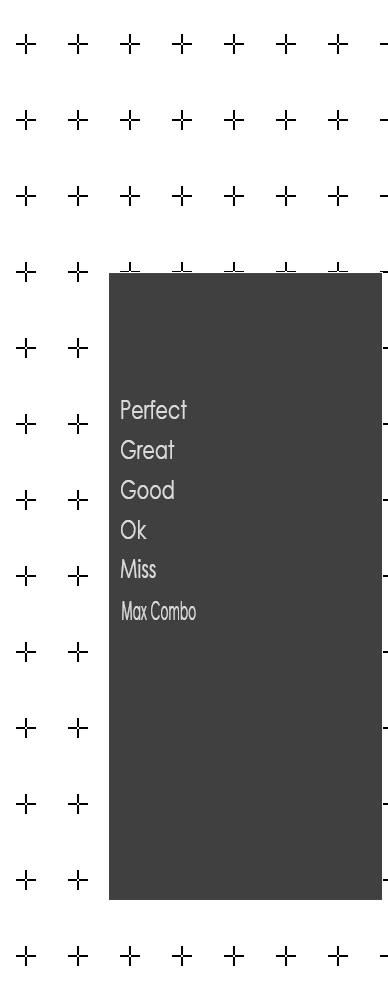
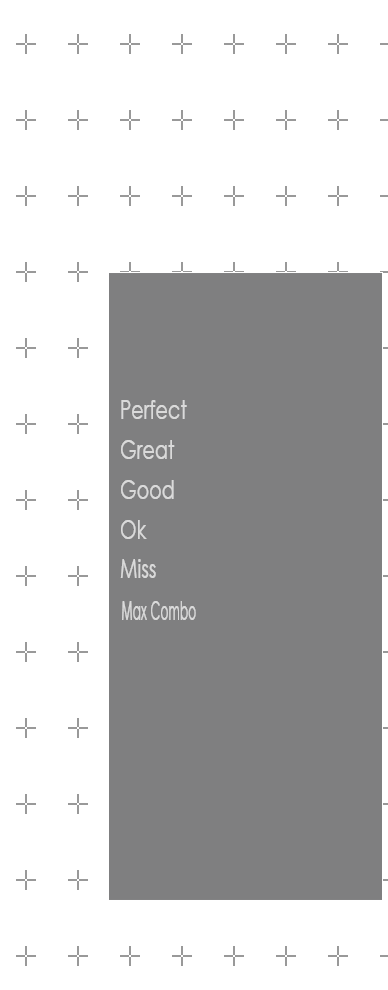
演奏画面のレーンフレームにレーンラインを追加。

diff --git a/DTXmatixx/ステージ/演奏/レーンフレーム.cs b/DTXmatixx/ステージ/演奏/レーンフレーム.cs
@@ -3,6 +3,7 @@ using System.Collections.Generic;
 using System.Diagnostics;
 using System.Linq;
 using SharpDX;
+using SharpDX.Direct2D1;
 using FDK;
 using FDK.メディア;
 
@@ -10,7 +11,6 @@ namespace DTXmatixx.ステージ.演奏
 {
 	/// <summary>
 	///		チップの背景であり、レーン全体を示すフレーム画像。
-	///		レーンフラッシュアニメも追加。
 	/// </summary>
 	class レーンフレーム : Activity
 	{
@@ -26,20 +26,20 @@ namespace DTXmatixx.ステージ.演奏
 		/// <summary>
 		///		表示レーンの左端X位置を、レーンフレームの左端からの相対位置で示す。
 		/// </summary>
-		public static Dictionary<表示レーン種別, float> レーンto左端位置dpx
+		public static Dictionary<表示レーン種別, float> レーンtoチップの左端位置dpx
 		{
 			get;
 			protected set;
 		} = new Dictionary<表示レーン種別, float>() {
 			{ 表示レーン種別.Unknown, +0f },
-			{ 表示レーン種別.LeftCrash, +4f },
-			{ 表示レーン種別.HiHat, +107f },
-			{ 表示レーン種別.Foot, +181f },
-			{ 表示レーン種別.Snare, +259f },
+			{ 表示レーン種別.LeftCrash, +1f },
+			{ 表示レーン種別.HiHat, +108f },
+			{ 表示レーン種別.Foot, +183f },
+			{ 表示レーン種別.Snare, +258f },
 			{ 表示レーン種別.Bass, +352f },
-			{ 表示レーン種別.Tom1, +447f },
-			{ 表示レーン種別.Tom2, +522f },
-			{ 表示レーン種別.Tom3, +598f },
+			{ 表示レーン種別.Tom1, +446f },
+			{ 表示レーン種別.Tom2, +521f },
+			{ 表示レーン種別.Tom3, +595f },
 			{ 表示レーン種別.RightCrash, +677f },
 		};
 		
@@ -67,17 +67,51 @@ namespace DTXmatixx.ステージ.演奏
 		{
 			using( Log.Block( FDKUtilities.現在のメソッド名 ) )
 			{
+				this._レーン色ブラシ = new SolidColorBrush( gd.D2DDeviceContext, new Color4( 0xff5d5d5d ) );
 			}
 		}
 		protected override void On非活性化( グラフィックデバイス gd )
 		{
 			using( Log.Block( FDKUtilities.現在のメソッド名 ) )
 			{
+				FDKUtilities.解放する( ref this._レーン色ブラシ );
 			}
 		}
 
-		public void 進行描画する( グラフィックデバイス gd )
+		public void 描画する( グラフィックデバイス gd )
 		{
+			gd.D2DBatchDraw( ( dc ) => {
+
+				// レーンラインを描画する。
+				for( int i = 0; i < _レーンライン.Length; i++ )
+				{
+					var rc = _レーンライン[ i ];
+					rc.Left += レーンフレーム.領域.Left;
+					rc.Right += レーンフレーム.領域.Left;
+					dc.FillRectangle( rc, _レーン色ブラシ );
+				}
+
+			} );
 		}
+
+		/// <summary>
+		///		レーンラインの領域。
+		///		<see cref="レーンフレーム.領域"/>.Left からの相対値[dpx]。
+		/// </summary>
+		private static RectangleF[] _レーンライン = {
+			new RectangleF( +96f, +0f, 4f, 938f ),
+			new RectangleF( +104f, +0f, 4f, 938f ),
+			new RectangleF( +179f, +0f, 4f, 938f ),
+			new RectangleF( +256f, +0f, 4f, 938f ),
+			new RectangleF( +340f, +0f, 4f, 938f ),
+			new RectangleF( +347f, +0f, 4f, 938f ),
+			new RectangleF( +443f, +0f, 4f, 938f ),
+			new RectangleF( +518f, +0f, 4f, 938f ),
+			new RectangleF( +592f, +0f, 4f, 938f ),
+			new RectangleF( +665f, +0f, 4f, 938f ),
+			new RectangleF( +673f, +0f, 4f, 938f ),
+		};
+
+		private SolidColorBrush _レーン色ブラシ = null;
 	}
 }

diff --git a/DTXmatixx/ステージ/演奏/演奏ステージ.cs b/DTXmatixx/ステージ/演奏/演奏ステージ.cs
@@ -40,6 +40,7 @@ namespace DTXmatixx.ステージ.演奏
 		public 演奏ステージ()
 		{
 			this.子リスト.Add( this._背景画像 = new 画像( @"$(System)images\演奏画面.png" ) );
+			this.子リスト.Add( this._レーンフレーム = new レーンフレーム() );
 			this.子リスト.Add( this._曲名パネル = new 曲名パネル() );
 			this.子リスト.Add( this._ヒットバー画像 = new 画像( @"$(System)images\演奏画面_ヒットバー.png" ) );
 			this.子リスト.Add( this._ドラムパッド = new ドラムパッド() );
@@ -296,6 +297,7 @@ namespace DTXmatixx.ステージ.演奏
 						this._右サイドクリアパネル.描画する( gd );
 
 						this._背景画像.描画する( gd, 0f, 0f );
+						this._レーンフレーム.描画する( gd );
 						this._ドラムパッド.進行描画する( gd );
 						this._曲名パネル.描画する( gd );
 						this._ヒットバーを描画する( gd );
@@ -377,6 +379,7 @@ namespace DTXmatixx.ステージ.演奏
 
 						this._小節線拍線を描画する( gd, 演奏時刻sec );
 						this._背景画像.描画する( gd, 0f, 0f );
+						this._レーンフレーム.描画する( gd );
 						this._ドラムパッド.進行描画する( gd );
 						this._曲名パネル.描画する( gd );
 						this._ヒットバーを描画する( gd );
@@ -433,6 +436,7 @@ namespace DTXmatixx.ステージ.演奏
 
 		private bool _初めての進行描画 = true;
 		private 画像 _背景画像 = null;
+		private レーンフレーム _レーンフレーム = null;
 		private 曲名パネル _曲名パネル = null;
 		private ドラムパッド _ドラムパッド = null;
 		private 判定文字列 _判定文字列 = null;
@@ -623,7 +627,7 @@ namespace DTXmatixx.ステージ.演奏
 						// 移動
 						変換行列2D = 変換行列2D *
 							Matrix3x2.Translation(
-								x: レーンフレーム.領域.Left + レーンフレーム.レーンto左端位置dpx[ lane ],
+								x: レーンフレーム.領域.Left + レーンフレーム.レーンtoチップの左端位置dpx[ lane ],
 								y: 縦中央位置dpx - 縦方向中央位置dpx * 音量0to1 );
 
 						this._ドラムチップ画像.描画する(
@@ -645,7 +649,7 @@ namespace DTXmatixx.ステージ.演奏
 							( ( 0 >= 消滅割合 ) ? Matrix3x2.Identity : Matrix3x2.Scaling( 1f - 消滅割合, 1f, 矩形中央 ) ) *
 							Matrix3x2.Scaling( 1f, 音量0to1, 矩形中央 ) *
 							Matrix3x2.Translation(
-								x: レーンフレーム.領域.Left + レーンフレーム.レーンto左端位置dpx[ lane ],
+								x: レーンフレーム.領域.Left + レーンフレーム.レーンtoチップの左端位置dpx[ lane ],
 								y: 縦中央位置dpx - 縦方向中央位置dpx * 音量0to1 );
 
 						this._ドラムチップ画像.描画する(

diff --git a/DTXmatixx/ステージ/演奏/判定文字列.cs b/DTXmatixx/ステージ/演奏/判定文字列.cs
@@ -384,7 +384,7 @@ namespace DTXmatixx.ステージ.演奏
 				this.現在の状態 = 状態.非表示;
 
 				// 表示中央位置は、レーンごとに固定。
-				float x = レーンフレーム.領域.Left + レーンフレーム.レーンto左端位置dpx[ lane ] + レーンフレーム.レーンtoレーン幅dpx[ lane ] / 2f;
+				float x = レーンフレーム.領域.Left + レーンフレーム.レーンtoチップの左端位置dpx[ lane ] + レーンフレーム.レーンtoレーン幅dpx[ lane ] / 2f;
 				switch( lane )
 				{
 					case 表示レーン種別.LeftCrash: this.表示中央位置dpx = new Vector2( x, 530f ); break;

diff --git a/DTXmatixx/ステージ/演奏/チップ光.cs b/DTXmatixx/ステージ/演奏/チップ光.cs
@@ -218,7 +218,7 @@ namespace DTXmatixx.ステージ.演奏
 
 				// 表示中央位置は、レーンごとに固定。
 				this.表示中央位置dpx = new Vector2(
-					レーンフレーム.領域.Left + レーンフレーム.レーンto左端位置dpx[ lane ] + レーンフレーム.レーンtoレーン幅dpx[ lane ] / 2f,
+					レーンフレーム.領域.Left + レーンフレーム.レーンtoチップの左端位置dpx[ lane ] + レーンフレーム.レーンtoレーン幅dpx[ lane ] / 2f,
 					演奏ステージ.ヒット判定バーの中央Y座標dpx );
 			}
 			public void Dispose()
